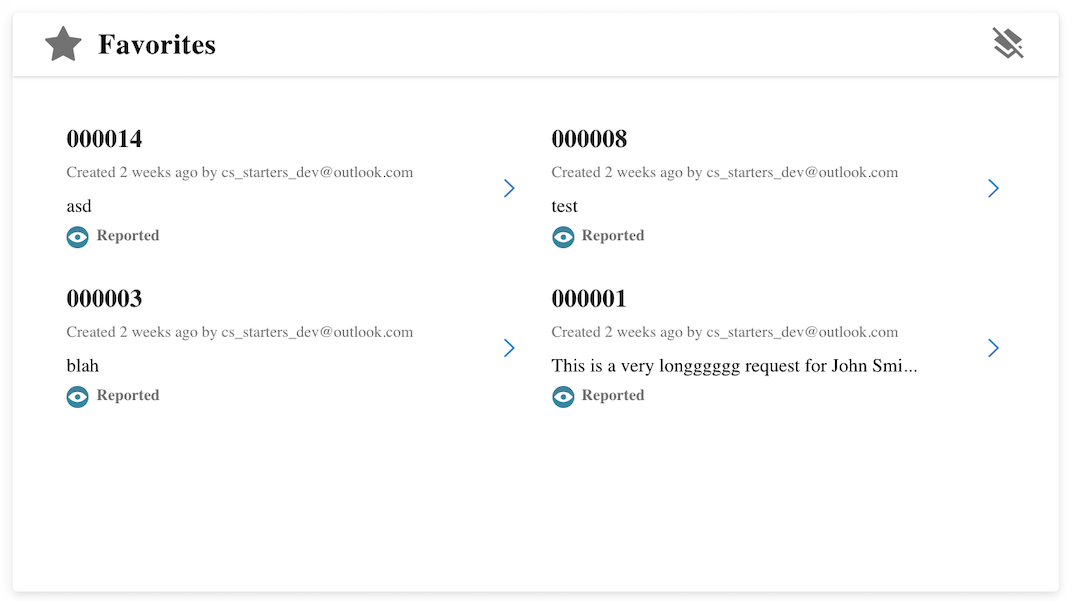
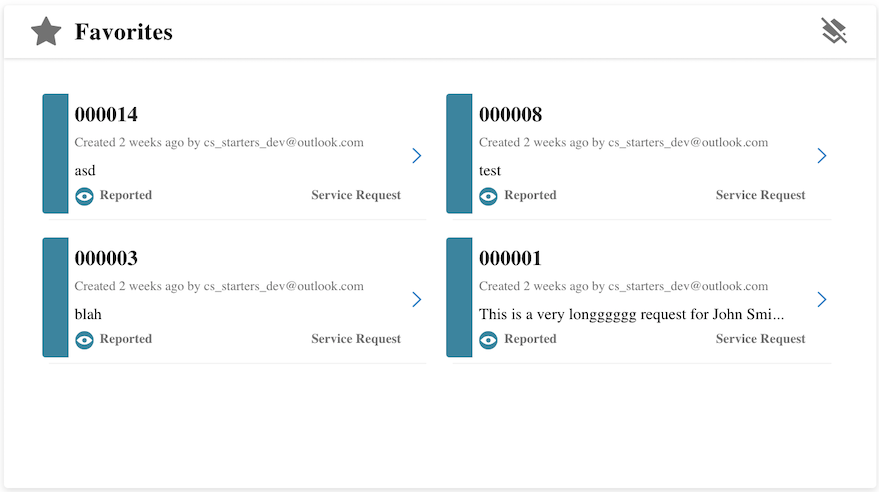
generic case summary cards

diff --git a/src/app/components/tibco-cloud-components/live-apps-recent-cases/live-apps-recent-cases.component.css b/src/app/components/tibco-cloud-components/live-apps-recent-cases/live-apps-recent-cases.component.css
@@ -1,0 +1,60 @@
+.tcs-case-recent-box {
+  width: 661px;
+  height: 366px;
+  border-radius: 3px;
+  box-shadow: 0 2px 8px 0 #dedede;
+  background-color: #ffffff;
+}
+
+.tcs-case-recent-header {
+  height: 40px;
+  border-radius: 3px 3px 0px 0px;
+  box-shadow: 0 1px 2px 0 #dedede;
+  padding-left: 20px;
+  padding-right: 20px;
+}
+
+.tcs-case-recent-header-text {
+  font-family: SourceSansPro;
+  font-size: 18px;
+  font-weight: 600;
+  font-style: normal;
+  font-stretch: normal;
+  line-height: 1.5;
+  letter-spacing: 0.3px;
+  text-align: left;
+  color: black;
+  margin-left: 10px;
+}
+
+.tcs-case-recent-flow-list {
+  margin: 24px;
+  overflow-y: auto;
+}
+
+.tcs-case-recent-item-box {
+  margin-top: 3px;
+  margin-bottom: 10px;
+  margin-left: 5px;
+  margin-right: 5px;
+  max-width: 297px;
+}
+
+.tcs-icon.tcs-icon-active:hover {
+  cursor: pointer;
+}
+
+:host ::ng-deep .tcs-icon.tcs-icon-active:hover .svg-content {
+  fill: #0081cb;
+}
+
+.tcs-case-summary-line {
+  padding: 0px;
+  margin-top: 4px;
+  margin-bottom: 0px;
+  margin-left:5px;
+  margin-right: 5px;
+  border-bottom-color: #f4f4f4;
+  border-bottom-width: 1.1px;
+  border-bottom-style: solid;
+}

diff --git a/src/app/components/tibco-cloud-components/live-apps-recent-cases/live-apps-recent-cases.component.html b/src/app/components/tibco-cloud-components/live-apps-recent-cases/live-apps-recent-cases.component.html
@@ -1,3 +1,15 @@
-<pre>Recent cases: {{ recentCases }}</pre>
-  <br>
-  <button (click)="clearRecentCases()">CLEAR RECENT CASES</button>
+<div class="tcs-case-recent-box" fxLayout="column">
+  <div class="tcs-case-recent-header" fxLayout="row" fxLayoutAlign="space-between center">
+    <div fxLayoutAlign="start center">
+      <mat-icon class="tcs-icon tcs-recent-icon" svgIcon="tcs-recent-icon"></mat-icon>
+      <div class="tcs-case-recent-header-text">Recent</div>
+    </div>
+    <mat-icon (click)="clearRecentCases()" class="tcs-icon tcs-icon-active tcs-clear-recent-icon" svgIcon="tcs-clear-icon" matTooltip="Clear Recent Cases" matTooltipPosition="left" matTooltipShowDelay="1000"></mat-icon>
+  </div>
+  <div class="tcs-case-recent-flow-list" fxLayout="column" fxLayout="row wrap">
+    <div class="tcs-case-recent-item-box" *ngFor="let case of recentCases" fxFlex>
+      <app-live-apps-case-summary [typeBar]="true" [borderCard]="false" [miniCard]="true" [sandboxId]="38" [caseReference]="case"></app-live-apps-case-summary>
+      <div class="tcs-case-recent-line"></div>
+    </div>
+  </div>
+</div>

diff --git a/src/app/components/tibco-cloud-components/live-apps-favorite-cases/live-apps-favorite-cases.component.html b/src/app/components/tibco-cloud-components/live-apps-favorite-cases/live-apps-favorite-cases.component.html
@@ -1,8 +1,3 @@
-<pre>Favorite cases: {{ favoriteCases }}</pre>
-<br>
-<button (click)="clearFavoriteCases()">CLEAR FAVORITE CASES</button>
-<br>
-
 <div class="tcs-case-favorites-box" fxLayout="column">
     <div class="tcs-case-favorites-header" fxLayout="row" fxLayoutAlign="space-between center">
       <div fxLayoutAlign="start center">
@@ -13,10 +8,8 @@
     </div>
     <div class="tcs-case-favorites-flow-list" fxLayout="column" fxLayout="row wrap">
       <div class="tcs-case-favorite-item-box" *ngFor="let case of favoriteCases" fxFlex>
-        <app-live-apps-case-summary [borderCard]="false" [miniCard]="true" [sandboxId]="38" [caseReference]="case"></app-live-apps-case-summary>
+        <app-live-apps-case-summary [typeBar]="true" [borderCard]="false" [miniCard]="true" [sandboxId]="38" [caseReference]="case"></app-live-apps-case-summary>
         <div class="tcs-case-summary-line"></div>
       </div>
-
-
     </div>
 </div>

diff --git a/src/app/components/tibco-cloud-components/live-apps-case-summary/live-apps-case-summary.component.html b/src/app/components/tibco-cloud-components/live-apps-case-summary/live-apps-case-summary.component.html
@@ -1,6 +1,6 @@
 <div *ngIf="miniCard">
   <mat-card *ngIf="metadata && metadata.applicationLabel && metadata.createdByDetails" class="tcs-case-summary-mini-card" [ngClass]="{border: borderCard}" fxLayout="row" fxLayoutAlign="start stretch">
-    <div class="tcs-case-summary-mini-card-side-bar"></div>
+    <div *ngIf="typeBar" class="tcs-case-summary-mini-card-side-bar"></div>
     <div class="tcs-case-summary-mini-card-right-content" fxFlex>
       <div class="tcs-case-summary-mini-card-left" fxLayout="column" fxLayoutAlign="space-between start" fxFlex>
         <div *ngIf="summaryValues[1]" class="tcs-case-summary-summary1-text mini" matTooltip="{{summaryKeys[1]}}" matTooltipShowDelay="1000" matTooltipPosition="above">{{summaryValues[1]  | ellipsis: 45}}</div>

diff --git a/src/app/components/routes/home/home.component.html b/src/app/components/routes/home/home.component.html
@@ -1,6 +1,8 @@
-<app-live-apps-recent-cases [sandboxId]="38" [uiAppId]="uiAppId"></app-live-apps-recent-cases>
-<br>
-<app-live-apps-favorite-cases [sandboxId]="38" [uiAppId]="uiAppId"></app-live-apps-favorite-cases>
+<div fxLayout="row" fxLayoutAlign="space-around start">
+  <app-live-apps-favorite-cases [sandboxId]="38" [uiAppId]="uiAppId"></app-live-apps-favorite-cases>
+  <app-live-apps-recent-cases [sandboxId]="38" [uiAppId]="uiAppId"></app-live-apps-recent-cases>
+</div>
+
 <br>
 <app-live-apps-documents [folderId]="'partner-portal'" [folderType]="'orgFolders'"></app-live-apps-documents>
 

diff --git a/src/app/app.component.ts b/src/app/app.component.ts
@@ -70,6 +70,10 @@ export class AppComponent {
       this.domSanitizer.bypassSecurityTrustResourceUrl('../assets/icons/ic-favorite.svg')
     );
     this.matIconRegistry.addSvgIcon(
+      'tcs-recent-icon',
+      this.domSanitizer.bypassSecurityTrustResourceUrl('../assets/icons/ic-recent.svg')
+    );
+    this.matIconRegistry.addSvgIcon(
       'tcs-clear-icon',
       this.domSanitizer.bypassSecurityTrustResourceUrl('../assets/icons/ic-clear.svg')
     );

diff --git a/src/app/components/tibco-cloud-components/live-apps-case-summary/live-apps-case-summary.component.ts b/src/app/components/tibco-cloud-components/live-apps-case-summary/live-apps-case-summary.component.ts
@@ -15,6 +15,7 @@ export class LiveAppsCaseSummaryComponent implements OnInit, OnDestroy {
   @Input() sandboxId: number;
   @Input() miniCard: boolean;
   @Input() borderCard: boolean;
+  @Input() typeBar: boolean;
   @Output() openCase = new EventEmitter;
 
   // use the _destroyed$/takeUntil pattern to avoid memory leaks if a response was never received

diff --git a/README.md b/README.md
@@ -10,9 +10,13 @@ This repo contains Angular 7 components and sample code for creating cloud start
 
 ![alt text](screenshots/Notes.png)
 
-# Favorites
+# Favorite Cases
 
 ![alt text](screenshots/Favorites.png)
+
+# Recent Cases
+
+![alt text](screenshots/Recent.png)
 
 # Summary Cards
 
